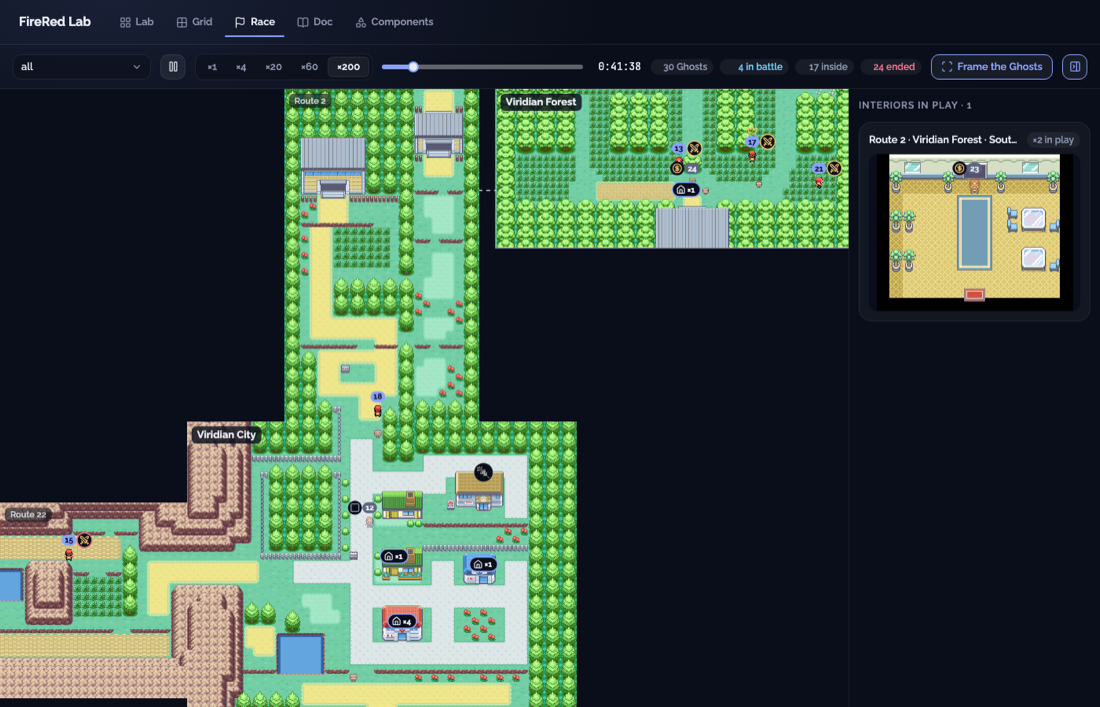
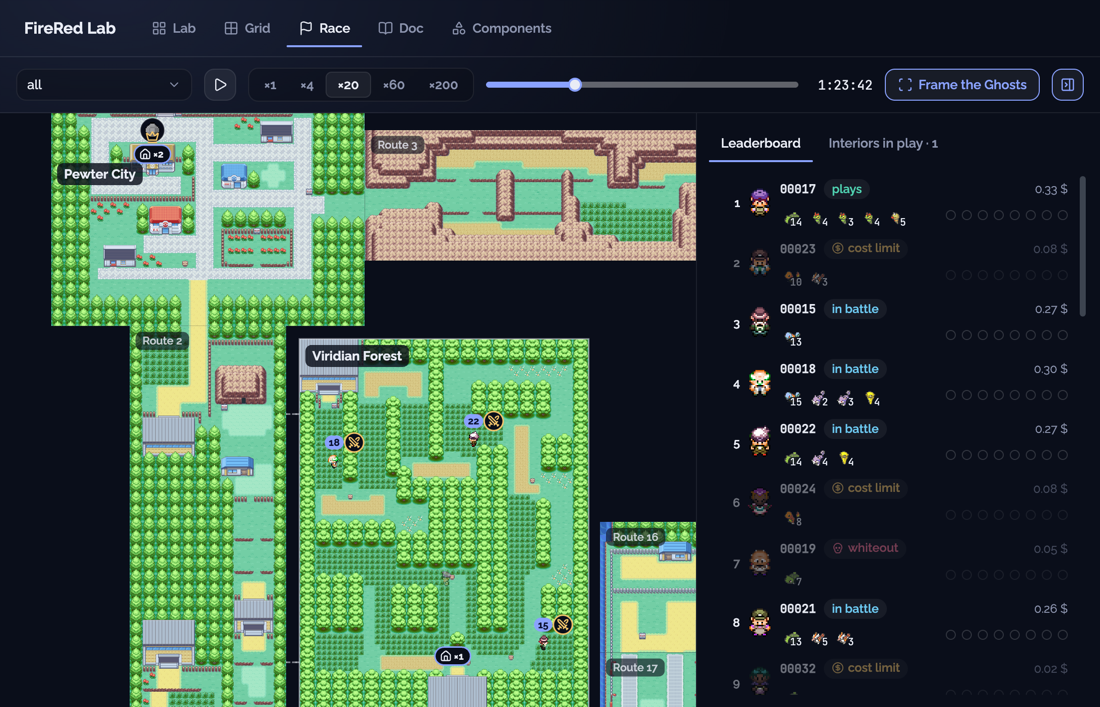
Tell the faces, the State track and the Leaderboard on the Race page of the Doc, with a new screenshot (#75)

diff --git a/lab/viewer/doc-overview.tsx b/lab/viewer/doc-overview.tsx
@@ -224,24 +224,26 @@ export function RacePage() {
     <Page
       lead="Many Run records on a map of Kanto, with no emulator. Each Run is a Ghost, and all the Ghosts start at frame 0."
       details={[
-        ["Race file", "the track of each Run on one game time, with its battles, its trainers, its Milestones and its Run result. A Race file of an older version must be made again."],
-        ["Choice of records", "a record is a file name, or the start of one file name (`00012`). With no record named, the command takes all the records of the model bots. A record with an empty track stays out, and a record of another Bot is refused."],
+        ["Race file", "the track and the State track of each Run on one game time, with its battles, its trainers, its Milestones, its faints, its money, its cost and its Run result. A Race file of an older version does not open: make it again."],
+        ["Choice of records", "a record is a file name, or the start of one file name (`00012`). With no record named, the command takes all the records of the model bots. A record of another Bot or below format 3 is refused. A record with no Run id at the start of its name or with an empty track stays out."],
         ["Continued Run", "a Continued Run replays all of its parent, so a Run that another Run of the Race continues has no Ghost. The command names the records that stay out."],
-        ["Leader", "the Ghost with the most Milestones at this frame. On a tie, the first to reach them."],
+        ["Rank", "at this frame, the most Milestones first, then the first to reach them, then the highest sum of levels, then the lowest Run id. The crown goes to the first."],
+        ["Sprite", "a hash of the Run id on 5 digits chooses a head and a body among 55 sprites of the ROM, and its colours in 8 families. The Race, the rank and the Bot do not change it, so a Run has the same face in every Race, and more Runs give more faces."],
         ["World", "the maps and the tiles come from the ROM, with no emulator. The ROM has no connections for the real Saffron City, so the map uses the place of its stand-in."],
         ["Hover on a door", "the first 3 interiors, each with its count of Ghosts."],
-        ["Hover on Ghosts", "the Run, its map and its state (plays, wild battle, trainer battle and the name of the trainer, or its result), or the numbers of the Runs for a group."],
+        ["Hover on Ghosts", "the Run id, its state, its map and its team with the level, the health, the status and the moves of each Pokémon. In a battle, also the trainer, its Pokémon and the foe. For a group, the Run ids and their teams."],
+        ["Hover on a row", "the same card, and the battles, the trainers beaten, the faints, the money and the Model calls. A Run with no change of its money shows a dash."],
         ["Counts", "in a wide window, the bar gives the Ghosts, those in battle, those inside and those that ended."],
         ["Keyboard", "it does not play in this tab. The Race draws only while its tab shows."],
       ]}
     >
-      <img src={viewerRace} alt="The Race tab: Ghosts on Route 2, Viridian Forest and Viridian City, and a drawer of the interiors" class={SHOT} />
+      <img src={viewerRace} alt="The Race tab: Ghosts with their own faces on the map of Kanto, and a Leaderboard with their teams and their badges" class={SHOT} />
       <div class={BLOCKS2}>
         <Block label="🏁 Make a Race">
           <Terms
             numbered
             rows={[
-              ["`bun run migrate`", "once: it adds the track to the old Run records"],
+              ["`bun run migrate`", "once: it adds the track and the State track to the old Run records"],
               ["`bun run race <name> [records…]`", "it writes `races/<name>.json.gz`"],
               ["Race tab", "choose the Race in the list of the bar"],
             ]}
@@ -250,11 +252,11 @@ export function RacePage() {
         <Block label="👻 A Ghost">
           <Terms
             rows={[
-              ["Sprite", "the player, with the number of its Run"],
+              ["Sprite", "its own face, from its Run id, with the number of its Run"],
               ["Crown", "on the leader of the Race"],
               ["Battle", "an icon next to its number while it fights"],
               ["End", "see-through, with an icon of its result next to its number"],
-              ["Click", "selects it: a ring around it, and its name"],
+              ["Click", "selects it: a ring around it, and its name. In a follow, the camera moves to it"],
             ]}
           />
         </Block>
@@ -262,9 +264,10 @@ export function RacePage() {
       <Block label="🗺 On the map">
         <div class={GRID3}>
           <DocCard icon={Gauge} title="Time" lines={["play and pause, ×1 to ×200", "a slider of game time"]} />
-          <DocCard icon={Camera} title="Camera" lines={["it frames the Ghosts that still play, until a wheel or a drag", "the button “Frame the Ghosts” gives it back"]} />
+          <DocCard icon={Camera} title="Camera" lines={["it frames the Ghosts that still play, until a wheel or a drag", "a click on a row follows one Ghost, and a second click ends it", "the button “Frame the Ghosts” gives it back"]} />
           <DocCard icon={DoorOpen} title="Doors" lines={["a count tells how many Ghosts are inside", "a hover shows the interiors, a click opens the building on the map"]} />
-          <DocCard icon={PanelRightOpen} title="Drawer" lines={["“Interiors in play”: only those where a Run still plays", "the interiors with the most Ghosts come first"]} />
+          <DocCard icon={Trophy} title="Leaderboard" lines={["the first tab of the panel at the right", "rank, sprite, Run id, state, cost, team and badges of each Run"]} />
+          <DocCard icon={PanelRightOpen} title="Interiors in play" lines={["the second tab of the panel: only the interiors where a Run still plays", "the interiors with the most Ghosts come first"]} />
           <DocCard icon={Trophy} title="Gyms" lines={["each gym shows its badge"]} />
         </div>
       </Block>

diff --git a/lab/HISTORY.md b/lab/HISTORY.md
@@ -133,4 +133,4 @@ The steps of the lab, in order. Each step gives what we added, and what a Run ta
 
 ## 11. The faces of the Ghosts: spec #75 (2026-11-01)
 
-54. The Ghosts get a face, a team and a rank (spec #75). Before, all the Ghosts had the sprite of Red, and only the number told one from another. The prototype compared 5 ways to make a sprite from a hash of the Run id, then 4 rounds on the real Race. All the ways gave 1000 different sheets for 1000 ids, in less than 0.4 ms each, so the eye of the user chose: the "ROM chimera", a head from one of 55 sprites of the ROM and a body from another. The recolour of Red, the paper doll, the rig and the noise mask lost. The colours took two rounds. Round 2 left the grey ramps of the palettes alone, so grey was the main colour of 34 % of 1000 ids; the role of a pixel now comes from its palette index, and grey is at 7 %. A hue from the whole circle made green the main colour of 32 % of the 31 Runs, so each ramp now draws from 8 families of the same weight, and each family is at 8 to 13.5 %. The face comes from the Run id alone, so a Run has the same face in every Race; a test pins some faces. So the number of a Ghost is now the id of its file, not a rank among the model bots. The Run record gets format 3: a State track with the team, the health and the battle at each change. The estimate from the prompts gave 2 to 3 KB for the largest Runs, without the foe and without each hit. With them, the largest State track is 425 KB of text and 19 KB in gzip, and the 31 Runs make a Race file of 139 KB, against 52 KB without the new lists. On Run 00022, 200 of the 202 team entries fall in a battle, because the game swaps the order of the party in memory for 14 to 45 frames; this is the true state, so the track keeps it. The migration replayed the 32 records with no refusal. The raw reads of the State track take 1.6 µs a frame, against 338 µs for the frame of the emulator. A Run with no change of its money has no money to show, as the record has none before the first change: 9 of the 31 Runs. The panel at the right gets a Leaderboard, and the hover cards show the team and the battle. The design system gets LeaderboardRow and MonIcon, named in the spec.
+54. The Ghosts get a face, a team and a rank (spec #75). Before, all the Ghosts had the sprite of Red, and only the number told one from another. The prototype compared 5 ways to make a sprite from a hash of the Run id, then 4 rounds on the real Race. All the ways gave 1000 different sheets for 1000 ids, in less than 0.4 ms each, so the eye of the user chose: the "ROM chimera", a head from one of 55 sprites of the ROM and a body from another. The recolour of Red, the paper doll, the rig and the noise mask lost. The colours took two rounds. Round 2 left the grey ramps of the palettes alone, so grey was the main colour of 34 % of 1000 ids; the role of a pixel now comes from its palette index, and grey is at 7 %. A hue from the whole circle made green the main colour of 32 % of the 31 Runs, so each ramp now draws from 8 families of the same weight, and each family is at 8 to 13.5 %. The face comes from the Run id alone, so a Run has the same face in every Race; a test pins some faces. So the number of a Ghost is now the id of its file, not a rank among the model bots. The Run record gets format 3: a State track with the team, the health and the battle at each change. The estimate from the prompts gave 2 to 3 KB for the largest Runs, without the foe and without each hit. With them, the largest State track is 425 KB of text and 19 KB in gzip, and the 31 Runs make a Race file of 139 KB, against 52 KB without the new lists. On Run 00022, 200 of the 202 team entries fall in a battle, because the game swaps the order of the party in memory for 14 to 45 frames; this is the true state, so the track keeps it. The migration replayed the 32 records with no refusal. The raw reads of the State track take 1.6 µs a frame, against 338 µs for the frame of the emulator. A Run with no change of its money has no money to show, as the record has none before the first change: 9 of the 31 Runs. The panel at the right gets a Leaderboard, and the hover cards show the team and the battle. The design system gets LeaderboardRow and MonIcon, named in the spec. The page of the Race in the Doc tells all of this, with a new screenshot.
